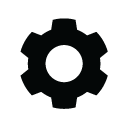
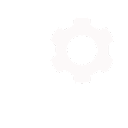
multi user!

Changed region(s): [[0.1562, 0.125, 0.8438, 0.875]]

diff --git a/js/index_engine.js b/js/index_engine.js
@@ -18,7 +18,7 @@ $(document).ready(function(){
 		data: "dateFilter=" + cDate, 
 		success: function(response)
 			{
-				var resp = JSON.parse(response)
+				var resp = JSON.parse(response);
 				writeAthlete(resp);
 			}
 	});
@@ -58,10 +58,11 @@ $(document).ready(function(){
 		},
 		success: function(jsonString)
 		{
-			// i just get a json string back from 
-			// the server with bits of useful shit in
-			var jsonObj = JSON.parse(jsonString);
-			handleTimings(jsonObj);
+			console.log("This is what is being returned");
+			//var jsonObj = JSON.parse(jsonString);
+
+			console.log(jsonString);
+			//handleTimings(jsonObj);
 		}
 	});
 
@@ -91,11 +92,12 @@ function writeAthlete(resp)
 {
 	var user = resp;
 	// this calculates how many calories you've burned today
-	// does it by hour, then plops on 
-		var dateObj = new Date();
-		var dateHours =	dateObj.getHours();
-		$("#calories_out").html(parseInt(user[0].calories / 24 * dateHours));
-		$("#exercises_illustration .jumbo").html(parseInt(user[1].gym_visits_left));
+	// does it by hour, then plops on
+
+	var dateObj = new Date();
+	var dateHours =	dateObj.getHours();
+	$("#calories_out").html(Math.round((user[0].calories / 24)) * dateHours);
+	//$("#exercises_illustration .jumbo").html(parseInt(user[1].gym_visits_left));
 }
 
 function writeExercises(exerciseString)
@@ -320,19 +322,3 @@ function calendarHandler(veryFirstDate)
 	}
 
 }
-
-   
-setTimeout(function(){
-
-	$(".day_column").each(function(){
-		var inner = $(this).context.textContent;
-		var db = user[1].date.substr(0,user[1].date.length - 5)
-
-		if (inner == db)
-		{
-			$(this).append("wow");
-			console.log("wow");
-		}
-	});
-
-},1000);

diff --git a/js/login_engine.js b/js/login_engine.js
@@ -175,11 +175,11 @@ function grabValues(flag)
 							createErrorMSG("This username already exists");
 							break;
 
-						case "does_not":
+						case "nonexistent":
 							createErrorMSG("This username doesn't exist, please register");
 							break;
 
-						case "password_incorrect":
+						case "incorrectpw":
 							createErrorMSG("Incorrect Password");
 							break;
 

diff --git a/css/global_framework.css b/css/global_framework.css
@@ -178,7 +178,6 @@ select
 #settings
 {
     float:right;
-    margin-right:4%;
 }
 
 #settings ul
@@ -188,8 +187,8 @@ select
 
 #settings ul img
 {
+    position:relative;
     margin-top:-12%;
-    
 }
 
 #settings ul ul

diff --git a/php/module_check_credentials.php b/php/module_check_credentials.php
@@ -48,13 +48,13 @@ if (isset($_POST['username']) && isset($_POST['type']))
 			}
 			else if ($isPasswordCorrect == false)
 			{
-				echo htmlspecialchars("password_incorrect");
+				echo htmlspecialchars("incorrectpw");
 			}
 		}
 		else if (!$doesUserExist)
 		{
 			// they need to register instead
-			echo htmlspecialchars("does_not");
+			echo htmlspecialchars("nonexistent");
 		}
 	}
 }
@@ -84,7 +84,7 @@ function createUser()
 
 	// the auth table will have a foreign key pointing to the record in the auth table.
 
-	mysqli_query($connect,"INSERT INTO athlete (username,name,email,gender,age,activity,weight,height,calories) VALUES ('$username','$name','$email','$gender','$age','$activity','$weight','$height','$calories')");
+	mysqli_query($connect,"INSERT INTO athlete (username,name,email,gender,age,activity,weight,height,calories,gym_visits_per_week) VALUES ('$username','$name','$email','$gender','$age','$activity','$weight','$height','$calories',4)");
 
 	$newUsrID = mysqli_query($connect,"SELECT id FROM athlete WHERE username = '$username'");
 

diff --git a/php/module_manage_timings.php b/php/module_manage_timings.php
@@ -6,6 +6,7 @@ session_start();
 
 $loggedInUser = $_SESSION['username'] ;
 
+
 if (isset($_POST['reset']))
 {
 	if ($_POST['reset'] == true)
@@ -22,15 +23,16 @@ if (isset($_POST['getDate']))
 	if ($_POST['getDate'] == true)
 	{
 
-		$sql = mysqli_query($connect,"SELECT * FROM timings WHERE `user_name` = '$loggedInUser'");
+		echo $loggedInUser;
+		//$sql = mysqli_query($connect,"SELECT * FROM timings WHERE `user_name` = '$loggedInUser'");
 
-		$row = mysqli_fetch_assoc($sql);
+		//$row = mysqli_fetch_assoc($sql);
 
-		$array = array();
+		//$array = array();
 
-		$array[] = $row;
+		//$array[] = $row;
 
-		echo json_encode($array);
+		//echo json_encode($array);
 
 	}
 }

diff --git a/php/module_push_diet.php b/php/module_push_diet.php
@@ -2,6 +2,10 @@
 
 require "db_conf.php";
 
+session_start();
+
+$loggedInUser = $_SESSION['username'] ;
+
 if(isset($_POST["whole"]))
 {
 	// store the entire json string in the db
@@ -10,7 +14,7 @@ if(isset($_POST["whole"]))
 	$totalCals = $_POST["totalCalories"];
 
 	// queries
-	$sql = mysqli_query($connect,"INSERT INTO diet (date_done,json,total_calories) VALUES ('$date','$strng','$totalCals')");
+	$sql = mysqli_query($connect,"INSERT INTO diet (date_done,json,total_calories,owner) VALUES ('$date','$strng','$totalCals','$loggedInUser')");
 
 	mysqli_close($connect);
 }

diff --git a/php/module_pull_diet.php b/php/module_pull_diet.php
@@ -1,13 +1,16 @@
 <?php
 
+
 require "db_conf.php";
 
-$connect = mysqli_connect($host,$username,$password,$database);
+session_start();
+
+$loggedInUser = $_SESSION['username'] ;
 
 if (isset($_POST['dateFilter']))
 {
 	$dateParam = $_POST['dateFilter'];
-	$sql = mysqli_query($connect,"SELECT * FROM diet WHERE date_done = '$dateParam'");
+	$sql = mysqli_query($connect,"SELECT * FROM diet WHERE date_done = '$dateParam' AND owner = '$loggedInUser'");
 }
 
 $json = array();

diff --git a/index.php b/index.php
@@ -1,9 +1,4 @@
-<?php session_start(); 
-
-
-echo $_SESSION['username'];
-
-?>
+<?php session_start(); ?>
 <!DOCTYPE html>
 <html lang="en" xml:lang="en">
 <head>
